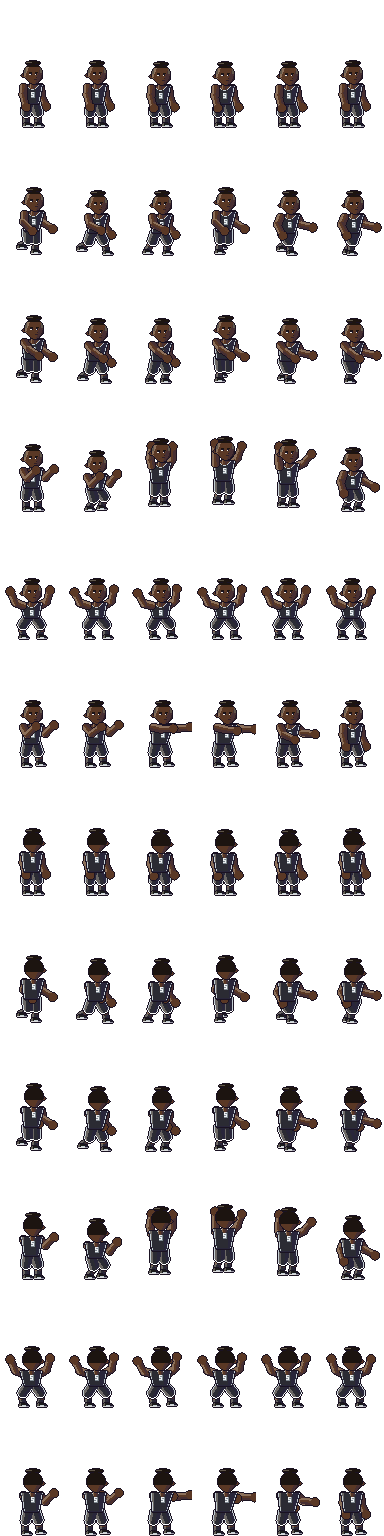
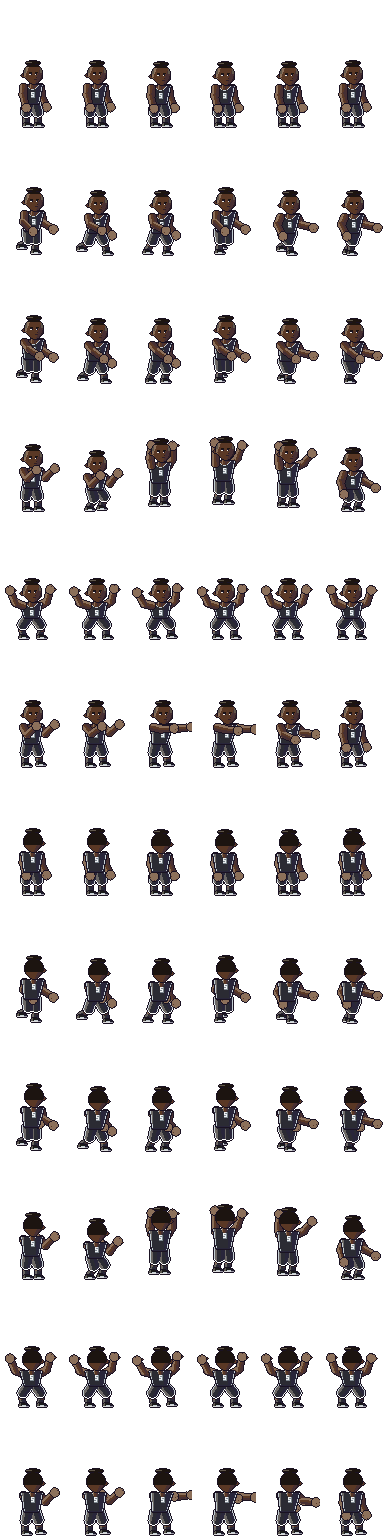
Draw hands as separate outlined parts with a thumb
Claude-Session: https://claude.ai/code/session_01LTKzMKRVJif4SPnst9Zi32

diff --git a/playcall/src/render/pixelchar.js b/playcall/src/render/pixelchar.js
@@ -415,9 +415,21 @@ function drawArm(buf, arm, S, P, side) {
     const a = [arm.elbow[0] + (arm.wrist[0] - arm.elbow[0]) * 0.65, arm.elbow[1] + (arm.wrist[1] - arm.elbow[1]) * 0.65];
     for (const [k, c] of capsule(a, arm.wrist, r + 0.6, P.band)) px.set(k, c);
   }
-  // 手掌：圓圓的連指手套形
-  for (const [k, c] of capsule(arm.hand, arm.hand, r + 1.0, P.skin)) px.set(k, c);
   buf.paint(px);
+  // 手掌另外畫成獨立零件：和手臂之間有描邊分開，顏色稍亮，加上拇指
+  const dir = [arm.hand[0] - arm.wrist[0], arm.hand[1] - arm.wrist[1]];
+  const len = Math.hypot(...dir) || 1;
+  const ux = dir[0] / len, uy = dir[1] / len;
+  const c = [arm.hand[0] + ux * 0.8, arm.hand[1] + uy * 0.8];
+  const hand = new Map();
+  for (const [k, col] of capsule(c, c, r + 1.1, [P.skin[0], P.skin[0], P.skin[1]])) hand.set(k, col);
+  // 拇指：往前方（右）凸出一格
+  const tx = Math.round(c[0] + -uy * (r + 1.6) + 1), ty = Math.round(c[1] + ux * (r + 1.6) * 0.3);
+  hand.set(`${tx},${ty}`, P.skin[1]);
+  // 指縫：靠末端一列暗色，讓手掌有形
+  const fx = Math.round(c[0] + ux * (r + 0.6)), fy = Math.round(c[1] + uy * (r + 0.6));
+  if (hand.has(`${fx},${fy}`)) hand.set(`${fx},${fy}`, P.skin[2]);
+  buf.paint(hand);
 }
 
 // ---------- 姿勢 ----------
